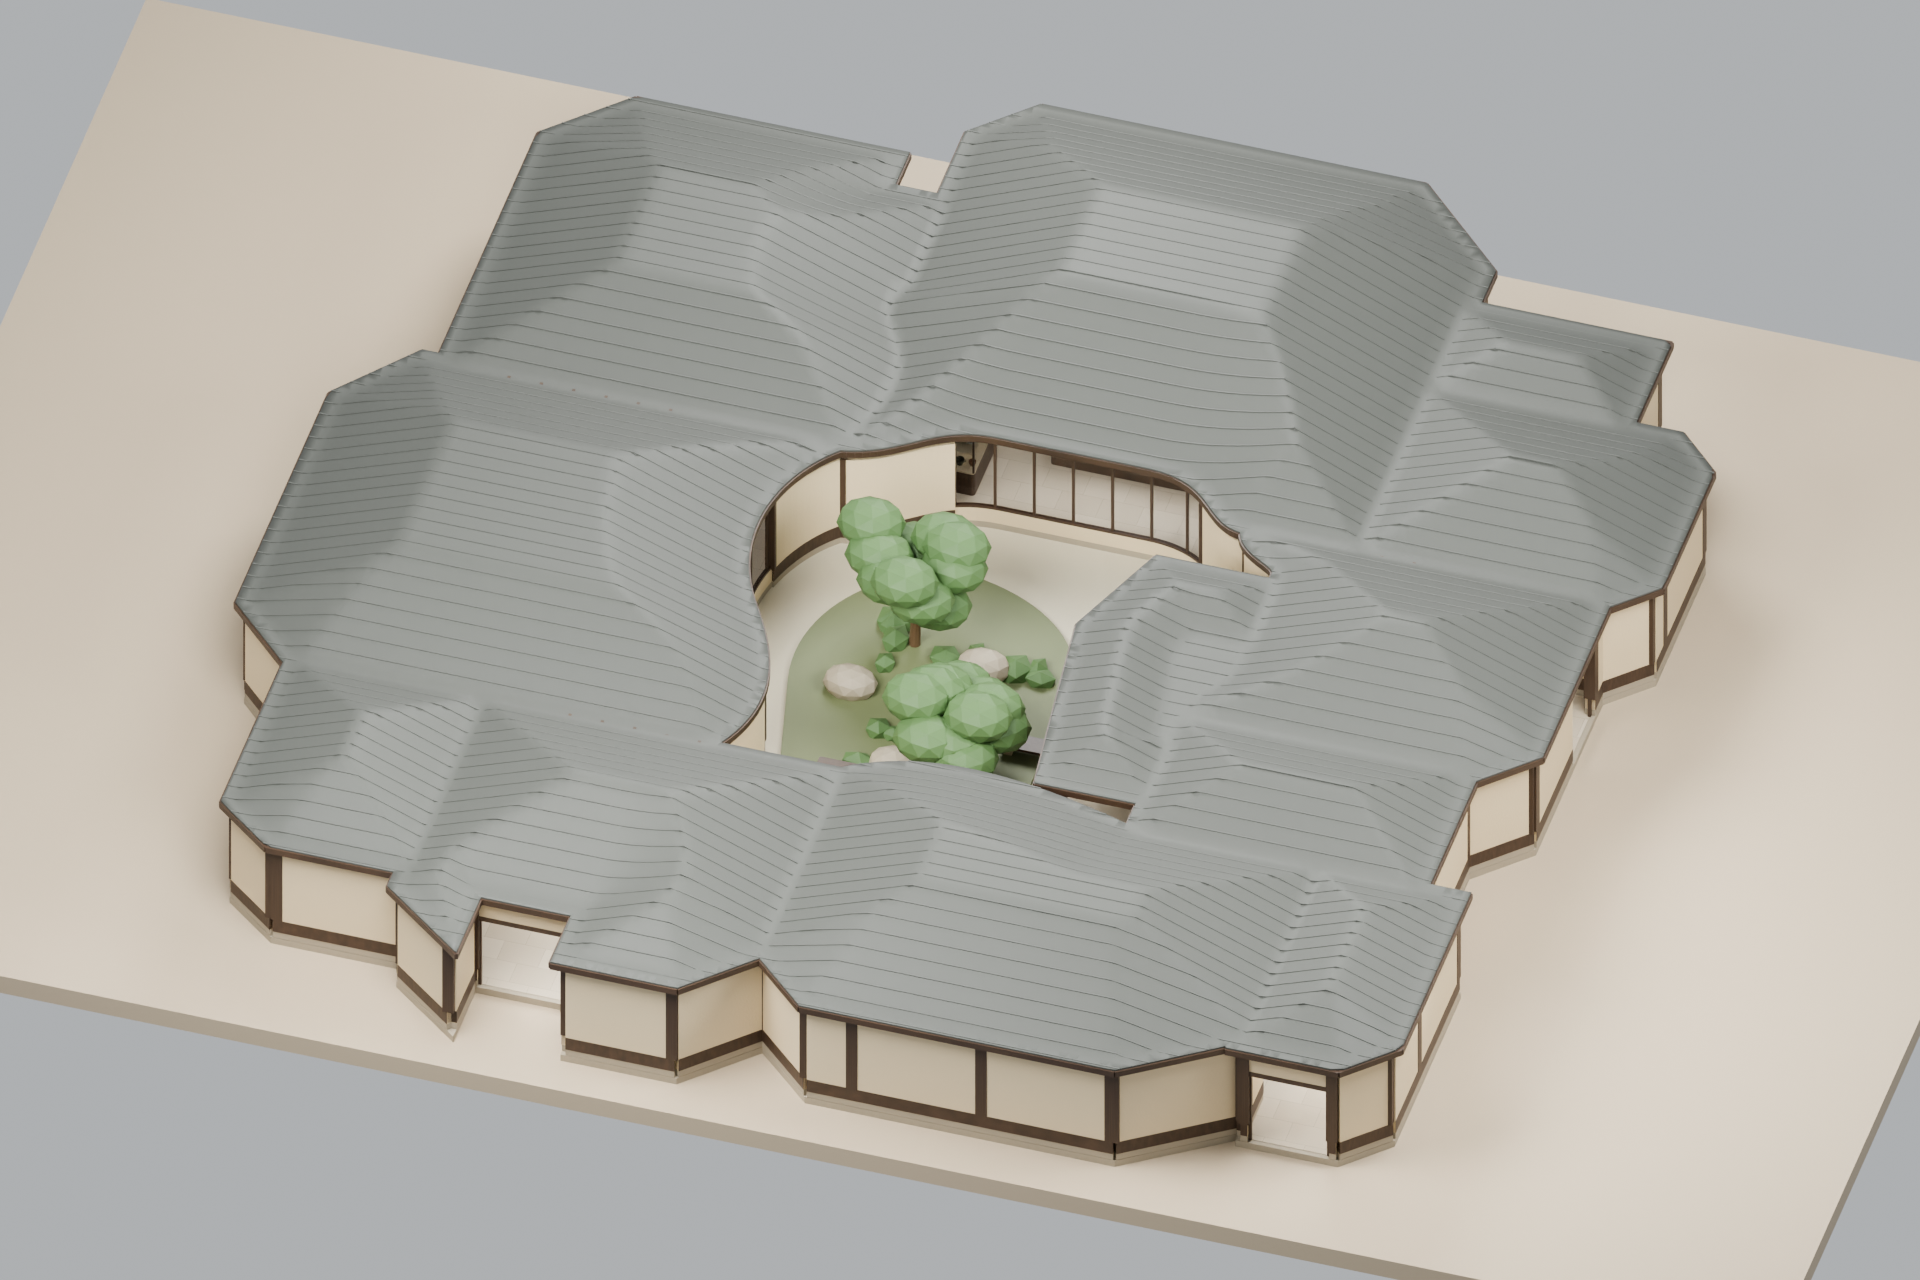
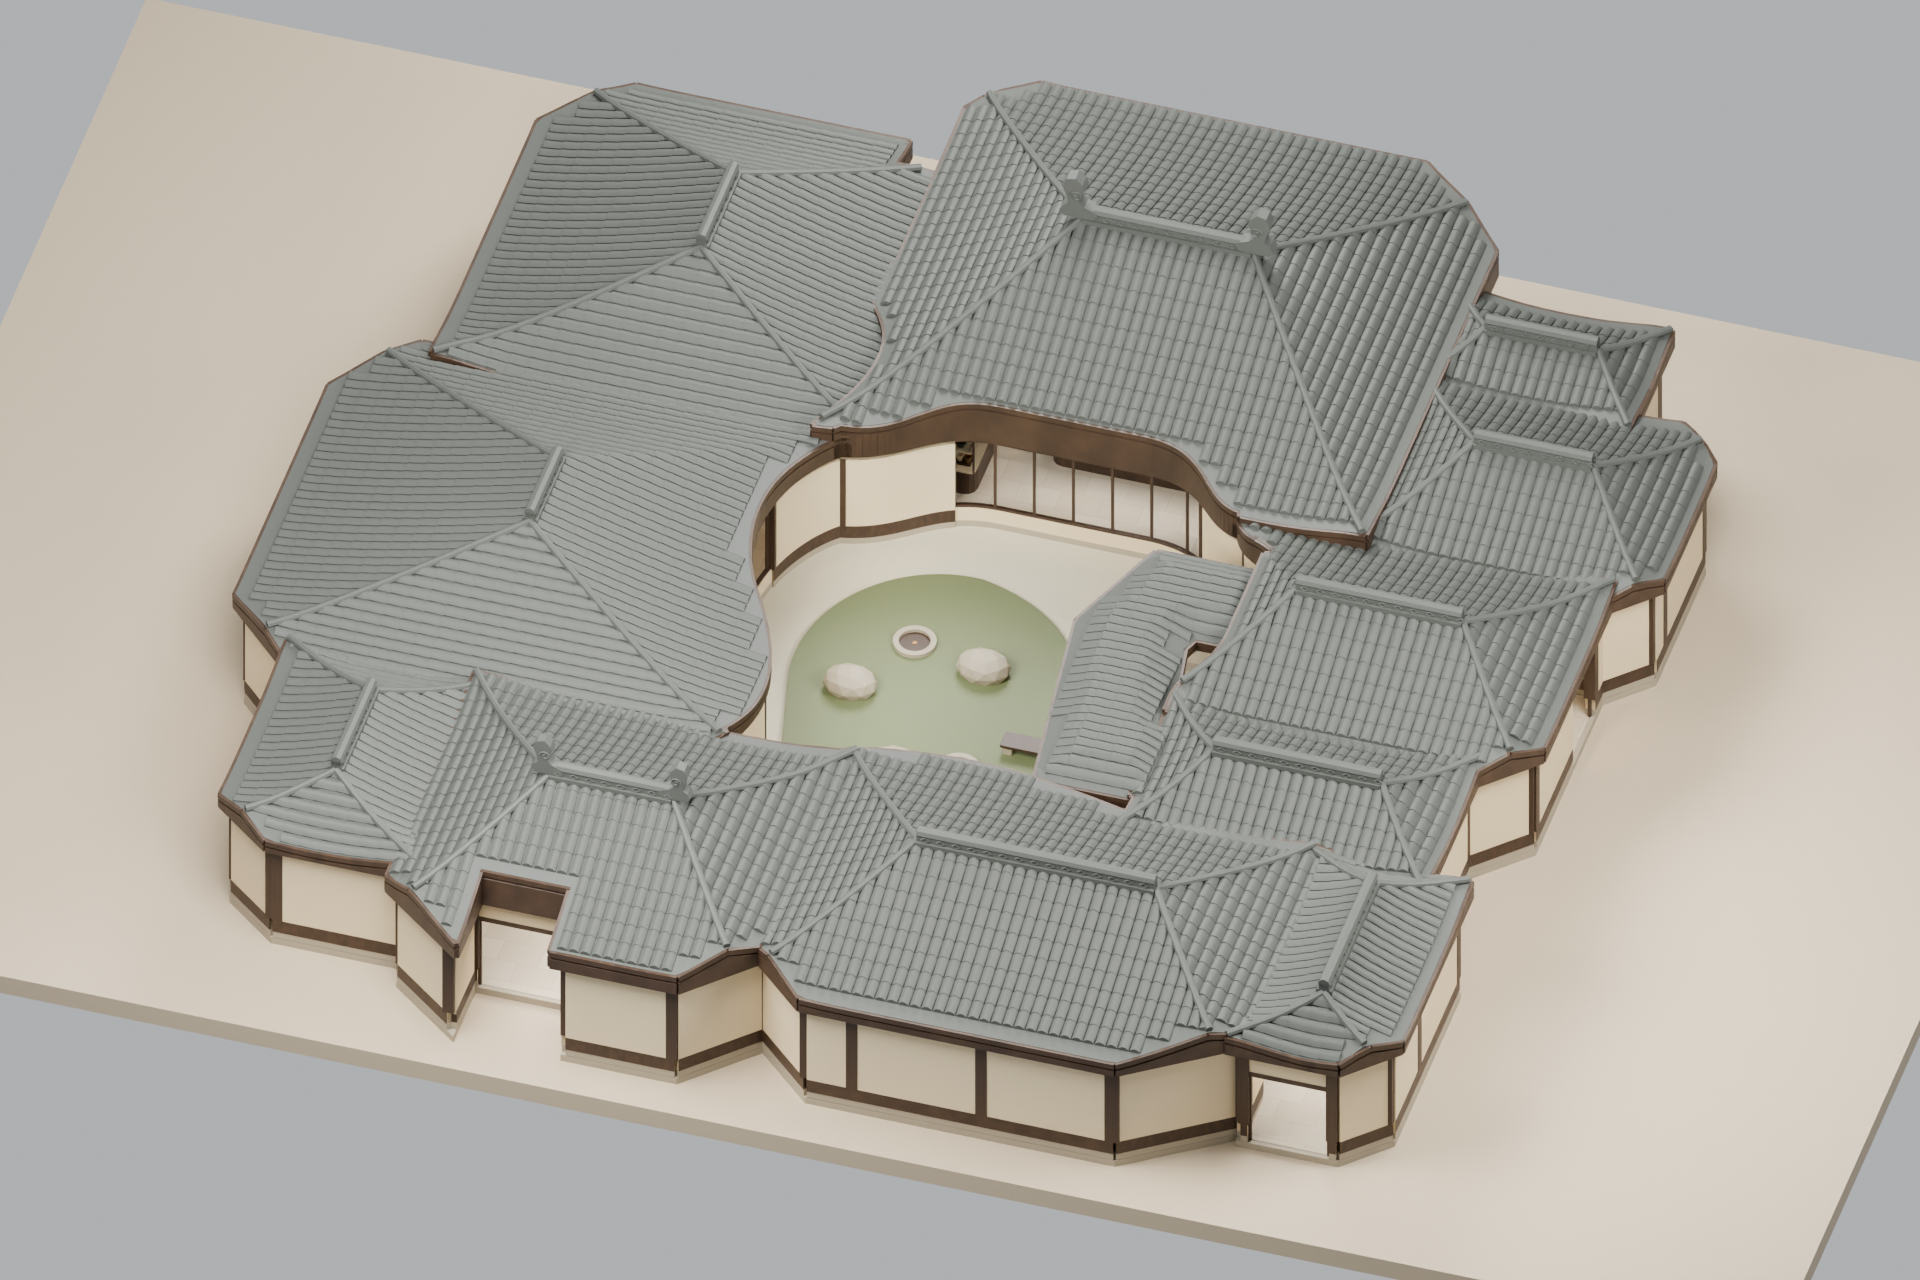
Publish r17 roof and exhibition model preview

Changed region(s): [[0.0938, 0.0625, 0.9062, 0.8438]]

diff --git a/index.html b/index.html
@@ -1,5 +1,7 @@
-<!doctype html><html lang="zh-CN"><head><meta charset="utf-8"><meta name="viewport" content="width=device-width,initial-scale=1"><meta name="theme-color" content="#f1eade"><title>莞香展馆 · 整顶可拆模型</title><style>
+<!doctype html><html lang="zh-CN"><head><meta charset="utf-8"><meta name="viewport" content="width=device-width,initial-scale=1"><title>莞香展馆 · 屋顶与展陈深化 r17</title><style>
 :root{--paper:#f1eade;--ink:#392e24;--muted:#74654f;--line:#cbbcaa;--accent:#75543b}
 *{box-sizing:border-box}html{scroll-behavior:smooth;scroll-padding-top:24px}body{margin:0;background:var(--paper);color:var(--ink);font:16px/1.8 "Microsoft YaHei","PingFang SC",sans-serif}::selection{background:#dcc19b;color:#2c2016}body{scrollbar-color:#9c8469 var(--paper)}a{color:inherit;text-underline-offset:5px}button,a{touch-action:manipulation}a:focus-visible,button:focus-visible{outline:3px solid #8d5132;outline-offset:5px}main{max-width:1280px;margin:auto;padding:36px 38px 28px}header{display:flex;justify-content:space-between;align-items:baseline;gap:20px;padding-bottom:18px;border-bottom:1px solid var(--line)}header span{color:var(--muted);font-size:14px}h1,h2,h3{font-family:"Songti SC","SimSun",serif;font-weight:500;text-wrap:balance}h1{font-size:clamp(32px,4.6vw,54px);line-height:1.25;margin:0}h2{font-size:32px;line-height:1.35;margin:0 0 16px}h3{font-size:24px;line-height:1.4;margin:0 0 10px}p{max-width:70ch;margin:12px 0}nav{display:flex;flex-wrap:wrap;gap:12px;margin:22px 0 26px}.button,button{font:inherit;line-height:1.4;border:1px solid var(--accent);padding:12px 19px;background:transparent;color:var(--ink);cursor:pointer;text-decoration:none;min-height:46px}.button:hover,button:hover{background:#e4d7c3}.primary,button[aria-pressed=true]{background:var(--ink);color:var(--paper)}.primary:hover,button[aria-pressed=true]:hover{background:#57412e}figure{margin:0}figure img{display:block;width:100%;height:auto;background:#d8cebc}figure>a{display:block}.hero{margin-top:0}figcaption{color:var(--muted);font-size:14px;padding-top:9px}section{margin-top:64px}.intro{font-size:18px;line-height:1.8;max-width:66ch}.pair{display:grid;grid-template-columns:1fr 1fr;gap:28px}.changes{display:grid;grid-template-columns:1fr 1fr;gap:32px;margin-top:30px}.changes p{margin-top:0}.plan-tools{display:flex;flex-wrap:wrap;gap:10px;margin:20px 0}.plan{background:#f4eee3;max-width:900px;margin:0 auto}.plan svg{width:100%;height:auto;display:block}.visually-off{display:none}.route-caption{color:var(--muted);margin-top:12px}.note{border-top:1px solid var(--line);padding-top:22px;margin-top:32px;color:var(--muted)}footer{border-top:1px solid var(--line);margin-top:64px;padding-top:20px;display:flex;justify-content:space-between;gap:20px;color:var(--muted);font-size:14px}.top-image{max-width:920px;margin:auto}details{margin-top:22px}summary{cursor:pointer;min-height:44px;padding:8px 0}details p{color:var(--muted)}@media(max-width:700px){main{padding:22px 18px}header{display:block}header span{display:block;margin-top:10px}h1{font-size:34px}h2{font-size:27px}.intro{font-size:16px}.pair,.changes{grid-template-columns:1fr;gap:28px}section{margin-top:44px}nav{gap:9px}.button,button{padding:11px 13px}.plan{margin:0 -8px}footer{display:block}.route-caption{font-size:14px}}@media(prefers-reduced-motion:reduce){html{scroll-behavior:auto}}
 
-figure{margin-top:20px}.sheet-links{display:flex;flex-wrap:wrap;gap:12px;margin-top:14px}.route{font-size:18px;line-height:2.1;max-width:70ch}.scope{color:var(--muted)}@media(max-width:700px){footer span{display:block;margin-top:6px}}</style></head><body data-release="r15-20261014"><main><header><h1>一馆香庭，整顶可拆</h1><span>莞香展馆 · r15 原生模型预览</span></header><p class="intro">根据已确认的布局与木作园林方向完成全馆建模。底板 60 × 40 厘米，比例 1:100；屋顶覆盖全馆，可整体提起。</p><nav aria-label="模型视角"><a class="button primary" href="#overview">去顶全馆</a><a class="button" href="#roof">屋顶装配</a><a class="button" href="#lift">整顶拆卸</a><a class="button" href="#gallery">回廊人视</a><a class="button" href="#plan">正俯分区</a></nav><section id="overview" aria-labelledby="overview-title"><h2 id="overview-title">01 · 去顶看全馆</h2><p>错落厅堂围合香庭，各区沿主参观线依次展开。350件或组拟展品已安排到对应展具。</p><figure><a href="模型预览/01_去顶整体.png?v=r15-20261014" target="_blank" rel="noopener" aria-label="放大去顶看全馆"><img src="模型预览/01_去顶整体.png?v=r15-20261014" width="1920" height="1280" fetchpriority=high alt="莞香展馆r15实际模型：去顶看全馆"></a><figcaption>点击图片查看原图</figcaption></figure></section><section id="roof" aria-labelledby="roof-title"><h2 id="roof-title">02 · 整顶覆盖全馆</h2><p>灰色坡屋面、深木檐口与承托木枋连接为整体，中央香庭露天。</p><figure><a href="模型预览/02_整顶装配.png?v=r15-20261014" target="_blank" rel="noopener" aria-label="放大整顶覆盖全馆"><img src="模型预览/02_整顶装配.png?v=r15-20261014" width="1920" height="1280" loading=lazy alt="莞香展馆r15实际模型：整顶覆盖全馆"></a><figcaption>点击图片查看原图</figcaption></figure></section><section id="lift" aria-labelledby="lift-title"><h2 id="lift-title">03 · 整体向上拆下</h2><p>屋顶与下部墙柱、展具及底板分开。图中整顶竖向提起，展示两部分的装配关系。</p><figure><a href="模型预览/03_整顶提起.png?v=r15-20261014" target="_blank" rel="noopener" aria-label="放大整体向上拆下"><img src="模型预览/03_整顶提起.png?v=r15-20261014" width="1920" height="1280" loading=lazy alt="莞香展馆r15实际模型：整体向上拆下"></a><figcaption>点击图片查看原图</figcaption></figure></section><section id="hall" aria-labelledby="hall-title"><h2 id="hall-title">04 · 香器主厅</h2><p>香器陈列、木作展具与暖浅墙面延续莞香主题。</p><figure><a href="模型预览/04_主厅陈列.png?v=r15-20261014" target="_blank" rel="noopener" aria-label="放大香器主厅"><img src="模型预览/04_主厅陈列.png?v=r15-20261014" width="1920" height="1280" loading=lazy alt="莞香展馆r15实际模型：香器主厅"></a><figcaption>点击图片查看原图</figcaption></figure></section><section id="gallery" aria-labelledby="gallery-title"><h2 id="gallery-title">05 · 香庭回廊</h2><p>木梁、廊柱、灯具和叶形雕刻围合庭院，连接手作与文创。</p><figure><a href="模型预览/05_香庭回廊.png?v=r15-20261014" target="_blank" rel="noopener" aria-label="放大香庭回廊"><img src="模型预览/05_香庭回廊.png?v=r15-20261014" width="1920" height="1280" loading=lazy alt="莞香展馆r15实际模型：香庭回廊"></a><figcaption>点击图片查看原图</figcaption></figure></section><section id="plan" aria-labelledby="plan-title"><h2 id="plan-title">06 · 正俯看分区</h2><p>以已确认平面落实厅堂、开口和陈列；主参观线贯穿各区。</p><figure><a href="模型预览/06_正俯分区.png?v=r15-20261014" target="_blank" rel="noopener" aria-label="放大正俯看分区"><img src="模型预览/06_正俯分区.png?v=r15-20261014" width="1920" height="1920" loading=lazy alt="莞香展馆r15实际模型：正俯看分区"></a><figcaption>点击图片查看原图</figcaption></figure></section><section><h2>沿香而行</h2><p class="route">序厅 → 寻香 → 识香 → 品香 → 闻香 → 传香手作 → 香庭回廊 → 文创 → 咖啡 → 尾厅出口</p><p>8 席手作 · 12 席咖啡 · 中央露天香庭</p></section><footer><span>莞香展馆 · 整顶可拆模型 r15</span><span>2026.10.14 · 待模型审核</span></footer></main></body></html>
+figure{margin-top:20px}.sheet-links{display:flex;flex-wrap:wrap;gap:12px;margin-top:14px}.route{font-size:18px;line-height:2.1;max-width:70ch}.scope{color:var(--muted)}@media(max-width:700px){footer span{display:block;margin-top:6px}}
+:focus-visible{outline:3px solid #93601f;outline-offset:5px}a:active{opacity:.75}html{color-scheme:light}.button{min-height:48px}figure a{border-radius:6px;overflow:hidden}.meta{font-size:16px;color:var(--muted)}
+</style></head><body data-release="r17-20261014"><main><header><h1>层檐叠瓦，香庭相连</h1><span>莞香展馆 · r17 模型预览</span></header><p class="intro">屋顶高低错落，仍可整顶提起。400件或组拟展内容、8席手作与12席咖啡，共同构成一条完整的莞香参观路径。</p><p class="meta">底板 60 × 40 厘米 · 比例 1:100 · 实际模型视图</p><nav aria-label="模型视角"><a class="button primary" href="#roof">屋顶整体</a><a class="button" href="#detail">屋顶细部</a><a class="button" href="#lift">整顶拆卸</a><a class="button" href="#overview">去顶全馆</a><a class="button" href="#hall">室内陈列</a><a class="button" href="#gallery">庭院回廊</a></nav><section id="roof" aria-labelledby="roof-title"><h2 id="roof-title">01 · 厅堂错落，整顶相连</h2><p>主厅最高，普通厅堂次之，回廊最低；灰青瓦面与深木檐口形成层次。</p><figure><a href="模型预览/02_整顶装配.png?v=r17-20261014" target="_blank" rel="noopener" aria-label="放大厅堂错落，整顶相连"><img src="网页图像/02_整顶装配.webp?v=r17-20261014" width="1920" height="1280" fetchpriority="high" alt="莞香展馆r17实际模型：厅堂错落，整顶相连"></a><figcaption>点击图片查看原图</figcaption></figure></section><section id="detail" aria-labelledby="detail-title"><h2 id="detail-title">02 · 正脊、正吻与立体瓦面</h2><p>主厅和入口设置成对正吻，屋面增加瓦垄叠压、实体正脊、檐口厚度与适度翘角。</p><figure><a href="模型预览/07_屋顶细部.png?v=r17-20261014" target="_blank" rel="noopener" aria-label="放大正脊、正吻与立体瓦面"><img src="网页图像/07_屋顶细部.webp?v=r17-20261014" width="1920" height="1280" loading="lazy" alt="莞香展馆r17实际模型：正脊、正吻与立体瓦面"></a><figcaption>点击图片查看原图</figcaption></figure></section><section id="lift" aria-labelledby="lift-title"><h2 id="lift-title">03 · 整顶向上取下</h2><p>上部屋顶作为一组提起，下部展馆与底板保持原位，中央庭院露天。</p><figure><a href="模型预览/03_整顶提起.png?v=r17-20261014" target="_blank" rel="noopener" aria-label="放大整顶向上取下"><img src="网页图像/03_整顶提起.webp?v=r17-20261014" width="1920" height="1280" loading="lazy" alt="莞香展馆r17实际模型：整顶向上取下"></a><figcaption>点击图片查看原图</figcaption></figure></section><section id="overview" aria-labelledby="overview-title"><h2 id="overview-title">04 · 去顶看全馆</h2><p>保留已确认的分区和连续动线，400件或组拟展内容安排到对应展示位置。</p><figure><a href="模型预览/01_去顶整体.png?v=r17-20261014" target="_blank" rel="noopener" aria-label="放大去顶看全馆"><img src="网页图像/01_去顶整体.webp?v=r17-20261014" width="1920" height="1280" loading="lazy" alt="莞香展馆r17实际模型：去顶看全馆"></a><figcaption>点击图片查看原图</figcaption></figure></section><section id="hall" aria-labelledby="hall-title"><h2 id="hall-title">05 · 品香 · 香器主厅</h2><p>核心展岛、香器分类壁龛和主题木作共同组织主厅。</p><figure><a href="模型预览/04_主厅陈列.png?v=r17-20261014" target="_blank" rel="noopener" aria-label="放大品香 · 香器主厅"><img src="网页图像/04_主厅陈列.webp?v=r17-20261014" width="1920" height="1280" loading="lazy" alt="莞香展馆r17实际模型：品香 · 香器主厅"></a><figcaption>点击图片查看原图</figcaption></figure></section><section id="botany" aria-labelledby="botany-title"><h2 id="botany-title">06 · 识香 · 观察与比较</h2><p>植物、香材与结香内容分组陈列，剖面模型与观察展岛形成重点。</p><figure><a href="模型预览/08_识香陈列.png?v=r17-20261014" target="_blank" rel="noopener" aria-label="放大识香 · 观察与比较"><img src="网页图像/08_识香陈列.webp?v=r17-20261014" width="1920" height="1280" loading="lazy" alt="莞香展馆r17实际模型：识香 · 观察与比较"></a><figcaption>点击图片查看原图</figcaption></figure></section><section id="craft" aria-labelledby="craft-title"><h2 id="craft-title">07 · 传香 · 八席手作</h2><p>工具、工序样品和学习成果移入专用展示位置，操作桌保留八席。</p><figure><a href="模型预览/09_传香手作.png?v=r17-20261014" target="_blank" rel="noopener" aria-label="放大传香 · 八席手作"><img src="网页图像/09_传香手作.webp?v=r17-20261014" width="1920" height="1280" loading="lazy" alt="莞香展馆r17实际模型：传香 · 八席手作"></a><figcaption>点击图片查看原图</figcaption></figure></section><section id="retail" aria-labelledby="retail-title"><h2 id="retail-title">08 · 文创 · 把莞香带回日常</h2><p>分段木作陈列结合香具、香礼和工艺品样品。</p><figure><a href="模型预览/10_文创陈列.png?v=r17-20261014" target="_blank" rel="noopener" aria-label="放大文创 · 把莞香带回日常"><img src="网页图像/10_文创陈列.webp?v=r17-20261014" width="1920" height="1280" loading="lazy" alt="莞香展馆r17实际模型：文创 · 把莞香带回日常"></a><figcaption>点击图片查看原图</figcaption></figure></section><section id="history" aria-labelledby="history-title"><h2 id="history-title">09 · 寻香 · 香铺与贸易</h2><p>香铺局部场景、贸易器具和历史图文形成连续观看内容。</p><figure><a href="模型预览/11_入口与寻香.png?v=r17-20261014" target="_blank" rel="noopener" aria-label="放大寻香 · 香铺与贸易"><img src="网页图像/11_入口与寻香.webp?v=r17-20261014" width="1920" height="1280" loading="lazy" alt="莞香展馆r17实际模型：寻香 · 香铺与贸易"></a><figcaption>点击图片查看原图</figcaption></figure></section><section id="gallery" aria-labelledby="gallery-title"><h2 id="gallery-title">10 · 香庭 · 预留后装树位</h2><p>庭院移除树木模型，保留树池安装位置，以回廊、景石与坐凳组织空间。</p><figure><a href="模型预览/05_香庭回廊.png?v=r17-20261014" target="_blank" rel="noopener" aria-label="放大香庭 · 预留后装树位"><img src="网页图像/05_香庭回廊.webp?v=r17-20261014" width="1920" height="1280" loading="lazy" alt="莞香展馆r17实际模型：香庭 · 预留后装树位"></a><figcaption>点击图片查看原图</figcaption></figure></section><section id="plan" aria-labelledby="plan-title"><h2 id="plan-title">11 · 正俯看分区</h2><p>序厅至尾厅的主参观线贯穿所有分区，文创与咖啡接续参观后段。</p><figure><a href="模型预览/06_正俯分区.png?v=r17-20261014" target="_blank" rel="noopener" aria-label="放大正俯看分区"><img src="网页图像/06_正俯分区.webp?v=r17-20261014" width="1920" height="1920" loading="lazy" alt="莞香展馆r17实际模型：正俯看分区"></a><figcaption>点击图片查看原图</figcaption></figure></section><section><h2>沿香而行</h2><p class="route">序厅 → 寻香 → 识香 → 品香 → 闻香 → 传香手作 → 香庭回廊 → 文创 → 咖啡 → 尾厅出口</p></section><footer><span>莞香展馆 · 屋顶与展陈深化 r17</span><span>2026.10.14 · 待模型审核</span></footer></main></body></html>
